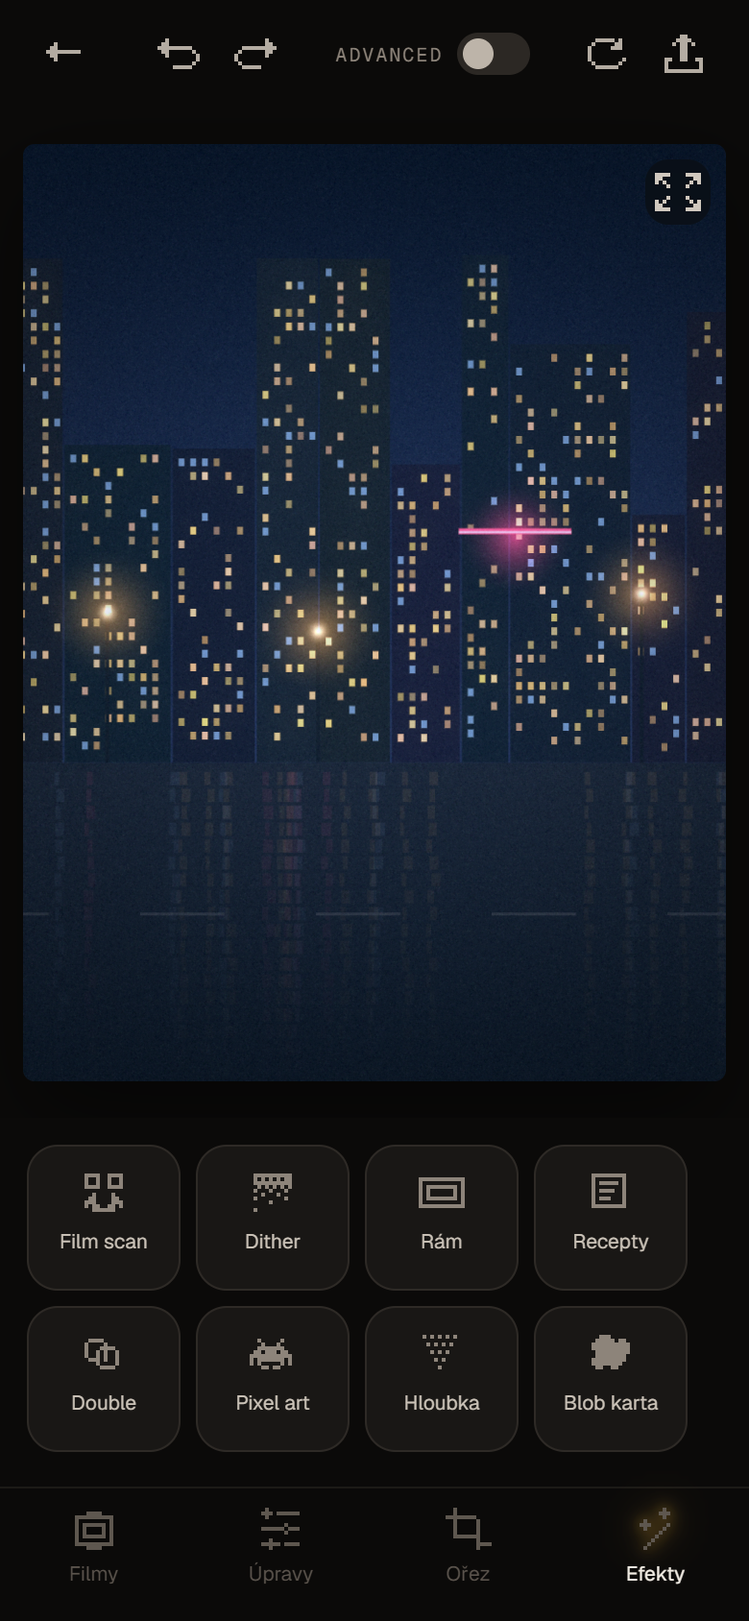
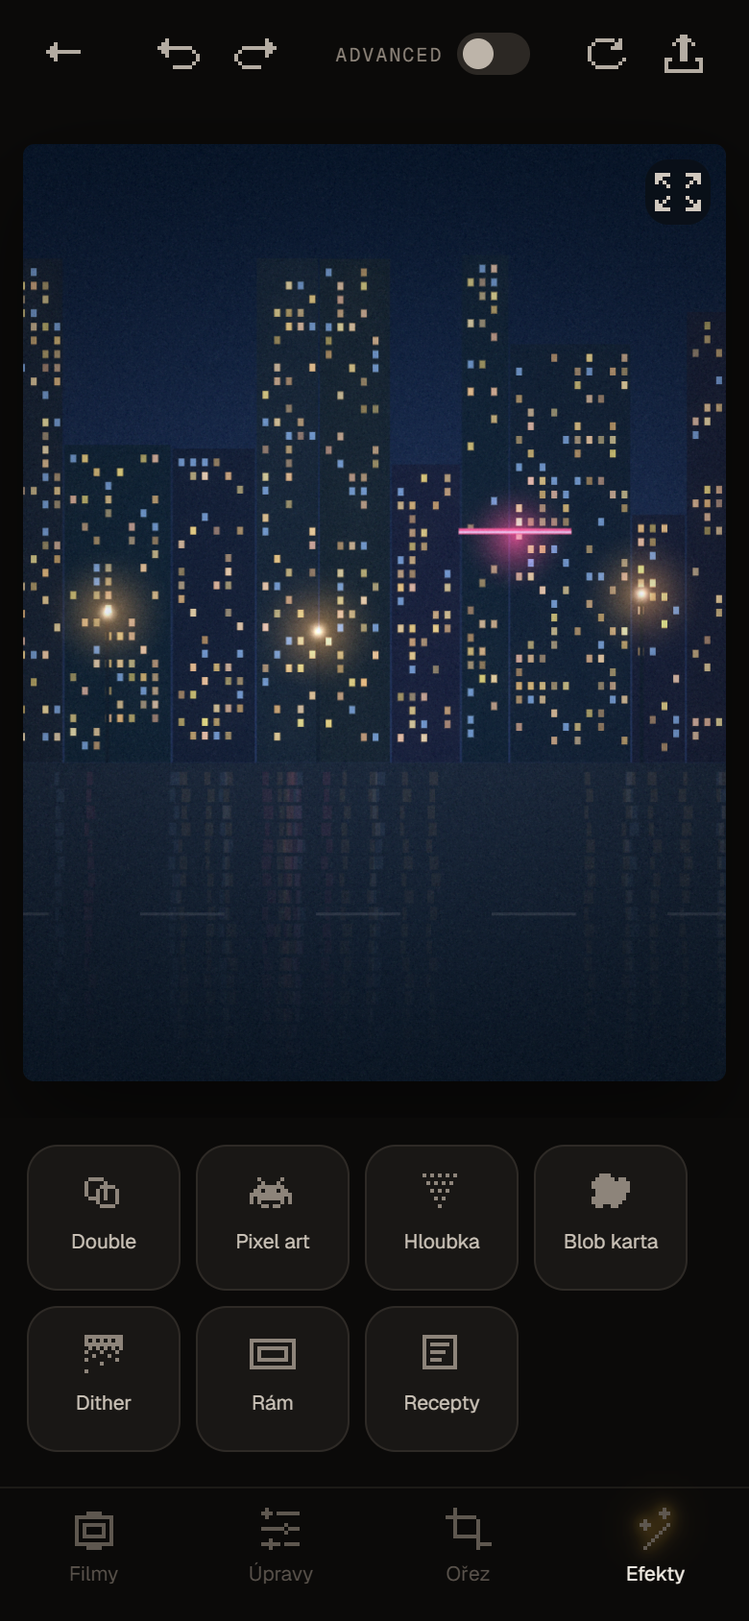
Náhled 0.7.3: Film scan jako vlastní obrazovka
- Film scan přesunutý z efektů: + ve výběru filmu, karta + v Mých filmech, ikona v menu
- náhled na aktuálním záběru, síla přenosu uložená ve filmu
- export .cube / JSON vlastního filmu z nabídky po podržení
- menu: O appce přes celou šířku

diff --git a/docs/preview/index.html b/docs/preview/index.html
@@ -338,6 +338,7 @@ a{color:var(--amber)}
 .fhead{position:relative}
 .favbtn{position:absolute;right:18px;top:4px;width:40px;height:40px;border-radius:13px;display:grid;place-items:center;color:#6d655c}
 .favbtn.on{color:#ff5b6e}
+.newfilm{position:absolute;left:18px;top:4px;width:40px;height:40px;border-radius:13px;display:grid;place-items:center;color:var(--fg);font-size:22px;box-shadow:inset 0 0 0 1.5px #3d3731}
 .favbtn.on .px{color:#ff5b6e;filter:drop-shadow(0 0 6px rgba(255,80,100,.6))}
 .citem.fav span::before,.fthumb.fav span::before{content:"♥ ";color:#ff5b6e}
 .filmchip .dispo{color:var(--amber)}
@@ -469,6 +470,16 @@ input[type=range]:hover::-webkit-slider-thumb{background:#fff}
 /* reference sheet */
 .refrow{display:grid;grid-template-columns:1fr auto 1fr;gap:10px;align-items:center;padding:0 18px}
 .refrow figure{margin:0;text-align:center}
+.scanbody{flex:1;overflow-y:auto;display:flex;flex-direction:column;gap:18px;padding:6px 0 24px}
+.scanbody .snote{margin:0;padding:0 20px;font-size:12.5px;line-height:1.5;color:var(--mute);text-align:center}
+.scanbody .bh{padding:0 18px 8px}
+.scanbody .srow{padding:0 18px}
+.scanbody .segrow{display:flex;padding:0 18px}
+.scanbody .segrow .seg{display:flex;flex:1}
+.scanbody .segrow .seg button{flex:1;height:32px;padding:0}
+.menu button:last-child:nth-child(3n+1){grid-column:1/-1;flex-direction:row;justify-content:center;padding:14px 8px}
+.fcard.addcard{align-items:stretch}
+.fcard.addcard .ab{aspect-ratio:4/5;border-radius:14px;border:1.5px dashed #4a443e;display:grid;place-items:center;color:var(--fg);font-size:30px}
 .refrow canvas{width:100%;aspect-ratio:4/5;border-radius:14px;display:block}
 .refrow figcaption{font-size:10.5px;color:var(--mute);margin-top:6px;font-family:var(--f-mono);letter-spacing:.08em}
 .refrow .arrow{color:var(--amber);font-family:var(--f-dot);font-size:22px;font-weight:900}
@@ -606,7 +617,7 @@ input[type=range]:hover::-webkit-slider-thumb{background:#fff}
 <body>
 <div class="shell" id="shell">
   <aside class="nav">
-    <div class="brand">QAMERA<small>Náhled 0.7.2</small></div>
+    <div class="brand">QAMERA<small>Náhled 0.7.3</small></div>
     <div>
       <div class="navlabel">Zobrazení</div>
       <div class="seg" id="viewSeg"><button class="on" data-v="m">MOBIL 390×844</button><button data-v="pc">PC 1440×900</button></div>
@@ -697,7 +708,7 @@ input[type=range]:hover::-webkit-slider-thumb{background:#fff}
           </div>
           <div class="sheet" id="filmSheet">
             <div class="grab"></div>
-            <div class="fhead"><div class="code" id="fCode">P400</div><div class="sub" id="fSub"></div><button class="favbtn" id="favBtn" aria-label="Oblíbený film"></button></div>
+            <div class="fhead"><div class="code" id="fCode">P400</div><div class="sub" id="fSub"></div><button class="favbtn" id="favBtn" aria-label="Oblíbený film"></button><button class="newfilm" id="newFilm" aria-label="Nový film z fotky">+</button></div>
             <div class="carousel hs" id="carousel"></div>
             <div class="fdesc" id="fDesc"></div>
             <div class="flegend">Číslo v kódu je citlivost ISO: vyšší = víc grainu a lepší do tmy.</div>
@@ -748,17 +759,6 @@ input[type=range]:hover::-webkit-slider-thumb{background:#fff}
             <button data-t="crop"><svg class="px" viewBox="0 0 24 24" data-raw="crop"></svg>Ořez</button>
             <button data-t="fx"><svg class="px" viewBox="0 0 24 24" data-raw="magic"></svg>Efekty</button>
           </nav>
-          <div class="sheet" id="refSheet">
-            <div class="grab"></div>
-            <div class="fhead" style="height:48px"><div class="code" style="font-size:22px">FILM SCAN</div><div class="sub">vytvoř si vlastní film z fotky, která se ti líbí</div></div>
-            <div class="refrow"><figure><canvas id="refA" width="160" height="200"></canvas><figcaption>REFERENCE</figcaption></figure><span class="arrow">→</span><figure><canvas id="refB" width="160" height="200"></canvas><figcaption>VÝSLEDEK</figcaption></figure></div>
-            <div class="refpick hs" id="refPick"></div>
-            <div class="segrow"><div class="seg" id="refMethod"><button class="on" data-m="r">REINHARD</button><button data-m="i">IDT + REGRAIN</button></div></div>
-            <div class="srow"><span>Síla přenosu</span><input type="range" id="refStr" min="0" max="100" value="80" data-def="0"><output id="refStrO">80</output></div>
-            <div class="segrow" style="gap:8px"><button class="pbtn ghost" id="scanOff">Vypnout</button><button class="pbtn" id="scanSave">Uložit jako vlastní film</button></div>
-            <div class="exports"><button data-x=".cube">.cube<small>DaVinci, Photoshop</small></button><button data-x="JSON">JSON<small>preset Qamery</small></button><button data-x="XMP">XMP<small>Lightroom</small></button></div>
-            <button class="closebtn" id="refClose" aria-label="Zavřít"><svg class="px" viewBox="0 0 24 24" data-raw="down"></svg></button>
-          </div>
           <div class="sheet" id="dxSheet">
             <div class="grab"></div>
             <div class="fhead" style="height:48px"><div class="code" style="font-size:22px">DOUBLE</div><div class="sub">dvojexpozice s další fotkou</div></div>
@@ -791,6 +791,19 @@ input[type=range]:hover::-webkit-slider-thumb{background:#fff}
           <div class="bbar pb"><button class="pbtn ghost" id="bText">Text: zap</button><button class="pbtn ghost" id="bSave">Uložit blob</button><button class="pbtn" id="bShare">Export</button></div>
         </section>
 
+        <!-- FILM SCAN -->
+        <section class="scr pt" id="s-scan" hidden>
+          <div class="top"><button class="ib" data-back aria-label="Zpět" data-ic="back"></button><span class="title">Film scan</span><span style="width:40px"></span></div>
+          <div class="scanbody">
+            <p class="snote">Vyber fotku, jejíž barvy se ti líbí. Qamera z ní přenese barvy a tóny a uloží je jako tvůj vlastní film.</p>
+            <div class="refrow"><figure><canvas id="refA" width="160" height="200"></canvas><figcaption>REFERENCE</figcaption></figure><span class="arrow">→</span><figure><canvas id="refB" width="160" height="200"></canvas><figcaption>TVŮJ ZÁBĚR</figcaption></figure></div>
+            <div><div class="bh">VYBER FOTKU</div><div class="refpick hs" id="refPick"></div></div>
+            <div class="segrow"><div class="seg" id="refMethod"><button class="on" data-m="r">REINHARD</button><button data-m="i">IDT + REGRAIN</button></div></div>
+            <div class="srow"><span>Síla přenosu</span><input type="range" id="refStr" min="0" max="100" value="80" data-def="0"><output id="refStrO">80</output></div>
+          </div>
+          <div class="bbar pb"><button class="pbtn" id="scanSave">Uložit jako nový film</button></div>
+        </section>
+
         <!-- SPRÁVCE FILMŮ -->
         <section class="scr pt" id="s-films" hidden>
           <div class="top"><button class="ib" data-back aria-label="Zpět" data-ic="back"></button><span class="title">Moje filmy</span><span style="width:40px"></span></div>
@@ -801,7 +814,7 @@ input[type=range]:hover::-webkit-slider-thumb{background:#fff}
         <section class="scr pt" id="s-about" hidden>
           <div class="top"><button class="ib" data-back aria-label="Zpět" data-ic="back"></button><span class="title">O appce</span><span style="width:40px"></span></div>
           <div class="about">
-            <div class="hero"><div class="lens"><svg class="eyes" id="aboutEyes" viewBox="14 24 92 72"></svg></div><h2>QAMERA</h2><div class="ver">NÁHLED 0.7.2</div></div>
+            <div class="hero"><div class="lens"><svg class="eyes" id="aboutEyes" viewBox="14 24 92 72"></svg></div><h2>QAMERA</h2><div class="ver">NÁHLED 0.7.3</div></div>
             <div class="card"><h3>Poděkování</h3>
               <p><a href="https://github.com/thetechgeekko/Spektrafilm-android" target="_blank" rel="noopener">Spektrafilm for Android</a> by <b>Akshay Sharma</b></p>
               <p>Film modeling powered by <a href="https://github.com/andreavolpato/spektrafilm" target="_blank" rel="noopener">spektrafilm</a> (Andrea Volpato)</p>
@@ -1353,7 +1366,7 @@ class Engine {
     gl.uniform3fv(u.uHsl, P.hsl.flat());
     const g = P.grade; gl.uniform3fv(u.uGSh, hue2rgb(g.sh[0], g.sh[1])); gl.uniform3fv(u.uGMid, hue2rgb(g.mid[0], g.mid[1])); gl.uniform3fv(u.uGHi, hue2rgb(g.hi[0], g.hi[1]));
     let T = o.transfer;
-    if (!T && f.scan && this.srcEl) { if (!this.st) this.st = stats(this.srcEl); T = { k: Math.min(1, P.str), ms: this.st.m, ss: this.st.s, mr: f.scan.m, sr: f.scan.s }; }
+    if (!T && f.scan && this.srcEl) { if (!this.st) this.st = stats(this.srcEl); T = { k: Math.min(1, P.str) * (f.scan.k ?? 1), ms: this.st.m, ss: this.st.s, mr: f.scan.m, sr: f.scan.s }; }
     gl.uniform1f(u.uGlow, P.glow ?? f.gl ?? .12); gl.uniform1f(u.uIR, f.ir ? 1 : 0);
     const st = (!o.bypass && P.style) || {}, sty = st.type === 'dither' ? 1 : st.type === 'pixel' ? 2 : 0, pal = (st.pal || []).slice(0, 6), pf = new Float32Array(18);
     pal.forEach((c, i) => { const v = rgbOf(c); pf.set([v[0] / 255, v[1] / 255, v[2] / 255], i * 3); });
@@ -1637,7 +1650,7 @@ const SLOW_MODES = ['STOPY', 'POHYB', 'HEDVÁBÍ'];
 /* =====================================================================
    Router + přechody
    ===================================================================== */
-const SCREENS = { camera: '#s-camera', gallery: '#s-gallery', editor: '#s-editor', blob: '#s-blob', about: '#s-about', films: '#s-films' };
+const SCREENS = { camera: '#s-camera', gallery: '#s-gallery', editor: '#s-editor', blob: '#s-blob', about: '#s-about', films: '#s-films', scan: '#s-scan' };
 const stack = [];
 let trans = null;
 function go(to, { back = false, onShown } = {}) {
@@ -1663,14 +1676,16 @@ function goBack() { const to = stack.pop() || 'camera'; go(to, { back: true }); 
 function renderFilmsMgr() { // všechny filmy na tvojí fotce: podrž = před/po, srdíčko = oblíbený, oko = skrýt z výběru
   const ph = S.photos.find(p => p.kind !== 'arch') || S.photos[0], src = srcOf(ph, ph.P);
   $('#fmg').innerHTML = `<p class="note">Ukázka na fotce z galerie. Podrž náhled = původní fotka. Skryté filmy nebudou ve výběru ve foťáku ani v editoru.</p>` + FILMS.map(f => `<div class="fcard ${HIDDEN.includes(f.code) ? 'off' : ''}" data-c="${f.code}"><canvas width="240" height="300"></canvas>
-    <div class="ft"><div><b>${f.code}</b><small>${f.sub}</small></div><div class="fa"><button class="heart ${FAV.includes(f.code) ? 'on' : ''}" aria-label="Oblíbený">${iconSVG(FAV.includes(f.code) ? 'heart' : 'heartO')}</button><button class="vis ${HIDDEN.includes(f.code) ? '' : 'on'}" aria-label="Zobrazit ve výběru">${iconSVG('eye')}</button></div></div></div>`).join('');
+    <div class="ft"><div><b>${f.code}</b><small>${f.sub}</small></div><div class="fa"><button class="heart ${FAV.includes(f.code) ? 'on' : ''}" aria-label="Oblíbený">${iconSVG(FAV.includes(f.code) ? 'heart' : 'heartO')}</button><button class="vis ${HIDDEN.includes(f.code) ? '' : 'on'}" aria-label="Zobrazit ve výběru">${iconSVG('eye')}</button></div></div></div>`).join('')
+    + `<button class="fcard addcard" id="fmAdd"><span class="ab">+</span><div class="ft"><div><b>NOVÝ FILM</b><small>film scan z fotky</small></div></div></button>`;
   const P = JSON.parse(JSON.stringify(ph.P)); P.crop = DEF().crop; P.gtype = null;
-  $$('#fmg .fcard').forEach(card => { const code = card.dataset.c, cv = $('canvas', card), paint = byp => { P.film = code; cv.getContext('2d').drawImage(utilRender(src, P, 240, 300, { bypass: byp }), 0, 0); }; paint(false);
+  $('#fmAdd').onclick = () => go('scan');
+  $$('#fmg .fcard[data-c]').forEach(card => { const code = card.dataset.c, cv = $('canvas', card), paint = byp => { P.film = code; cv.getContext('2d').drawImage(utilRender(src, P, 240, 300, { bypass: byp }), 0, 0); }; paint(false);
     let t = 0; cv.onpointerdown = () => { t = setTimeout(() => { paint(true); buzz(6); }, 140); }; cv.onpointerup = cv.onpointercancel = cv.onpointerleave = () => { clearTimeout(t); paint(false); };
     $('.heart', card).onclick = () => { FAV = FAV.includes(code) ? FAV.filter(c => c !== code) : [code, ...FAV]; store.set('fav', FAV); renderFilmsMgr(); buildCarousel(); buzz(6); };
     $('.vis', card).onclick = () => { HIDDEN = HIDDEN.includes(code) ? HIDDEN.filter(c => c !== code) : [...HIDDEN, code]; store.set('hiddenFilms', HIDDEN); card.classList.toggle('off', HIDDEN.includes(code)); $('.vis', card).classList.toggle('on', !HIDDEN.includes(code)); buildCarousel(); buzz(4); }; });
 }
-function onEnter(s) { if (s === 'films') renderFilmsMgr(); if (s === 'camera') startCam(); if (s === 'gallery') renderGallery(); if (s === 'blob') openBlob(); if (s === 'about') renderCamInfo(); if (s === 'editor') requestAnimationFrame(() => layoutEditor()); }
+function onEnter(s) { if (s === 'films') renderFilmsMgr(); if (s === 'scan') openScan(); if (s === 'camera') startCam(); if (s === 'gallery') renderGallery(); if (s === 'blob') openBlob(); if (s === 'about') renderCamInfo(); if (s === 'editor') requestAnimationFrame(() => layoutEditor()); }
 function onLeave(s) { if (s === 'camera' && S.screen !== 'camera') stopCam(); }
 
 /* spodní panely: tah za úchyt dolů = zavřít */
@@ -1691,8 +1706,8 @@ function sheetDrag(el) {
     h.addEventListener('pointerup', up); h.addEventListener('pointercancel', up);
   });
 }
-function onSheetClosed(el) { if (el.id === 'refSheet') setTab(S.tab, true); }
-function closeSheets() { ['#filmSheet', '#menuSheet', '#refSheet', '#dxSheet'].forEach(s => { const el = $(s); if (el._open) sheet(el, false); }); }
+function onSheetClosed(el) {}
+function closeSheets() { ['#filmSheet', '#menuSheet', '#dxSheet'].forEach(s => { const el = $(s); if (el._open) sheet(el, false); }); }
 
 /* =====================================================================
    Kamera
@@ -2198,7 +2213,7 @@ function viewImage(src, ph) {
    ===================================================================== */
 let edE, edRaf = 0, before = false;
 const PANEL_H = 186;
-function cleanP(P) { if (P.frame && !FRAMES[P.frame]) P.frame = null; P.date = null; if (P.depth && P.depth.mode === 'par') P.depth.mode = 'bokeh'; return P; } // zrušené efekty
+function cleanP(P) { if (P.frame && !FRAMES[P.frame]) P.frame = null; P.date = null; P.tr = 0; if (P.depth && P.depth.mode === 'par') P.depth.mode = 'bokeh'; return P; } // zrušené efekty
 function openEditor(ph, fromImg) {
   stopPar(); S.cur = ph; S.fxOpen = null; cleanP(ph.P); S.P = JSON.parse(JSON.stringify(ph.P)); S.cur._last = JSON.parse(JSON.stringify(ph.P)); S.hist = []; S.fut = [];
   edE.setSource(srcOf(ph, S.P));
@@ -2337,7 +2352,7 @@ function bakeCube(P, name) {
   for (let b = 0; b < n; b++) for (let y = 0; y < n; y++) for (let x = 0; x < n; x++) { const i = (y * n * n + b * n + x) * 4; im.data[i] = Math.round(x / (n - 1) * 255); im.data[i + 1] = Math.round(y / (n - 1) * 255); im.data[i + 2] = Math.round(b / (n - 1) * 255); im.data[i + 3] = 255; }
   g.putImageData(im, 0, 0);
   const Q = Object.assign(JSON.parse(JSON.stringify(P)), { grain: 0, hal: 0, bloom: 0, glow: 0, vig: 0, sharp: 0, style: null, depth: null, crop: DEF().crop }); // jen barvy a tóny
-  const T = P.tr ? transferFor() : (FILM[P.film] && FILM[P.film].scan ? (() => { const st = S.cur._stats || (S.cur._stats = stats(S.cur.src)), f = FILM[P.film]; return { k: Math.min(1, P.str), ms: st.m, ss: st.s, mr: f.scan.m, sr: f.scan.s }; })() : null);
+  const f0 = FILM[P.film], T = f0 && f0.scan ? { k: Math.min(1, P.str) * (f0.scan.k ?? 1), ms: [.45, .43, .41], ss: [.24, .24, .24], mr: f0.scan.m, sr: f0.scan.s } : null; // pro LUT průměrná fotka
   const out = copyCanvas(utilRender(id, Q, n * n, n, { transfer: T })), d = out.getContext('2d').getImageData(0, 0, n * n, n).data;
   let txt = ATTR.map(a => '# ' + a).join('\n') + `\n# Qamera look: ${name}\nTITLE "${name.replace(/"/g, '')}"\nLUT_3D_SIZE ${n}\nDOMAIN_MIN 0 0 0\nDOMAIN_MAX 1 1 1\n`;
   for (let b = 0; b < n; b++) for (let y = 0; y < n; y++) for (let x = 0; x < n; x++) { const i = (y * n * n + b * n + x) * 4; txt += `${(d[i] / 255).toFixed(5)} ${(d[i + 1] / 255).toFixed(5)} ${(d[i + 2] / 255).toFixed(5)}\n`; }
@@ -2348,8 +2363,8 @@ async function saveFile(name, text, type) {
   try { if (isMobile() && navigator.canShare && navigator.canShare({ files: [file] })) { await navigator.share({ files: [file], title: name }); return; } } catch (e) { if (e && e.name === 'AbortError') return; }
   const a = document.createElement('a'); a.href = URL.createObjectURL(file); a.download = name; document.body.appendChild(a); a.click(); setTimeout(() => { URL.revokeObjectURL(a.href); a.remove(); }, 1500); toast(`Uloženo: ${name}`);
 }
-function exportLook(kind) {
-  if (!S.cur) return; const P = S.P, name = `Qamera ${P.film}`, base = `qamera-${P.film.replace(/[^\w-]/g, '')}`;
+function exportLook(kind, P0) {
+  const P = P0 || S.P; if (!P) return; const name = `Qamera ${P.film}`, base = `qamera-${P.film.replace(/[^\w-]/g, '')}`;
   if (kind === '.cube') return saveFile(base + '.cube', bakeCube(P, name), 'text/plain');
   if (kind === 'JSON') return saveFile(base + '.json', JSON.stringify({ qamera: 1, name, film: P.film, lut: `luts/${P.film}.png`, attribution: ATTR, params: Object.fromEntries(Object.entries(P).filter(([k]) => !['crop', 'dx', 'depth'].includes(k))) }, null, 1), 'application/json');
   const f = FILM[P.film] || {}, num = v => (v > 0 ? '+' : '') + Math.round(v);
@@ -2446,7 +2461,7 @@ function setTab(t, quiet) {
     hscroll($('#aspRow')); requestAnimationFrame(placeCropBox);
   } else if (t === 'fx' && S.fxOpen) { renderFxPanel(p);
   } else if (t === 'fx') {
-    const fx = [['scan', 'Film scan', 'ref'], ['double', 'Double', 'double'], ['dither', 'Dither', 'dither'], ['pixel', 'Pixel art', 'pixel'], ['frame', 'Rám', 'frame'],
+    const fx = [['double', 'Double', 'double'], ['dither', 'Dither', 'dither'], ['pixel', 'Pixel art', 'pixel'], ['frame', 'Rám', 'frame'],
       ['depth', 'Hloubka', 'depth'], ['recipe', 'Recepty', 'recipe'], ['blob', 'Blob karta', 'blob']]; // co jde nastavit v Úpravách, tady není
     const st = S.P.style && S.P.style.type, on = k => (k === 'glowfx' && (S.P.glow ?? 0) > .45) || (k === 'sharp' && S.P.sharp) || (k === 'scan' && S.P.tr) || (k === 'double' && S.P.dx && S.P.dx.other) || (k === 'dither' && st === 'dither') || (k === 'pixel' && st === 'pixel') || (k === 'frame' && S.P.frame) || (k === 'depth' && S.P.depth) || (k === 'date' && S.P.date);
     p.innerHTML = `<div class="fx hs" id="fxRow">${fx.map(([k, l, ic, e]) => `<button data-fx="${k}" class="${on(k) ? 'on' : ''}">${iconSVG(ic)}${l}${e ? `<em>${e}</em>` : ''}</button>`).join('')}</div>`;
@@ -2457,7 +2472,6 @@ function setTab(t, quiet) {
 }
 function fxClick(b) {
   const k = b.dataset.fx;
-  if (k === 'scan') { openRef(); return; }
   if (['double', 'dither', 'pixel', 'frame', 'depth', 'date'].includes(k)) { openFx(k); return; }
   if (k === 'recipe') { recipeActs(); return; }
   if (k === 'blob') { S.blobFrom = S.cur; go('blob'); return; }
@@ -2717,7 +2731,8 @@ function wheel(el, v, set, end) {
 function toggleAdv() { S.adv = !S.adv; $('#advKnob').classList.toggle('on', S.adv); setTab(S.tab); buzz(6); }
 
 /* Reference */
-function setRef(src) { refSrc = src; refStats = stats(src); $('#refA').getContext('2d').drawImage(cropAr(src, .8), 0, 0, 160, 200); renderEd(); if (openRef._upd) openRef._upd(); }
+function setRef(src) { refSrc = src; refStats = stats(src); $('#refA').getContext('2d').drawImage(cropAr(src, .8), 0, 0, 160, 200); if (openRef._upd) openRef._upd(); }
+function openRef() {}
 function buildRefPick() {
   const el = $('#refPick');
   el.innerHTML = `<label aria-label="Nahrát referenci">+<input type="file" accept="image/*" id="refFile"></label>` + S.photos.filter(p => p !== S.cur).slice(0, 14).map(p => `<button data-id="${p.id}"><img src="${p.thumb}" alt=""></button>`).join('');
@@ -2727,7 +2742,9 @@ function buildRefPick() {
 }
 function filmActs(code) {
   const f = FILM[code];
-  openActs(`<h4>Vlastní film ${code}</h4><div class="rsave"><input id="fmName" value="${code}" maxlength="8" autocomplete="off"><button class="go" id="fmRen">Přejmenovat</button></div>${actBtn('del', 'trash', 'Smazat film', 'danger')}`, root => {
+  openActs(`<h4>Vlastní film ${code}</h4><div class="rsave"><input id="fmName" value="${code}" maxlength="8" autocomplete="off"><button class="go" id="fmRen">Přejmenovat</button></div>${actBtn('cube', 'share', 'Export .cube (DaVinci, Photoshop)')}${actBtn('json', 'share', 'Export JSON preset')}${actBtn('del', 'trash', 'Smazat film', 'danger')}`, root => {
+    $('[data-a=cube]', root).onclick = () => { closeActs(); exportLook('.cube', Object.assign(DEF(), { film: code })); };
+    $('[data-a=json]', root).onclick = () => { closeActs(); exportLook('JSON', Object.assign(DEF(), { film: code })); };
     $('#fmRen', root).onclick = () => { const n = $('#fmName', root).value.trim().toUpperCase().replace(/[^A-Z0-9-]/g, ''); if (!n || (FILM[n] && n !== code)) return toast('Kód je prázdný nebo už existuje'); closeActs(); renameFilm(code, n); };
     $('[data-a=del]', root).onclick = () => { closeActs(); deleteFilm(code); };
   });
@@ -2744,20 +2761,24 @@ function deleteFilm(code) {
   S.photos.forEach(p => { if (p.P.film === code) { p.P.film = 'P400'; rethumb(p); } }); if (S.P.film === code) S.P.film = 'P400'; if (S.film === code) setFilm('P400');
   FAV = FAV.filter(c => c !== code); store.set('fav', FAV); saveScans(); refreshFilmUI(); buzz(10); toast(`Film ${code} smazaný`);
 }
+/* nový film z reference (ve foťáku): přenos barev Reinhard v Lab, náhled na aktuálním záběru */
+const SCAN = { k: .8, sample: null, st: null };
+function ensureRef() { if (!refStats) { refSrc = copyCanvas(utilRender(drawScene('plaz', 320, 400, 5), Object.assign(DEF(), { film: 'VEL', grain: 0 }), 320, 400)); refStats = stats(refSrc); } }
+function scanSample() { const el = camE && camE.srcEl, c = mk(240, 300), g = c.getContext('2d'); const w = el ? (el.videoWidth || el.width) : 0, h = el ? (el.videoHeight || el.height) : 0;
+  if (w && h) { const k = Math.max(240 / w, 300 / h); g.drawImage(el, (240 - w * k) / 2, (300 - h * k) / 2, w * k, h * k); return c; }
+  const ph = S.photos.find(p => p.kind !== 'arch'); return ph ? cropAr(ph.src, .8) : c; }
+function scanPreview() { const P = Object.assign(DEF(), { film: 'P400', str: 0, grain: .3, hal: 0, bloom: 0, vig: .2 });
+  $('#refB').getContext('2d').drawImage(utilRender(SCAN.sample, P, 160, 200, { transfer: { k: SCAN.k, ms: SCAN.st.m, ss: SCAN.st.s, mr: refStats.m, sr: refStats.s } }), 0, 0); }
+function openScan() {
+  ensureRef(); SCAN.sample = scanSample(); SCAN.st = stats(SCAN.sample); buildRefPick(); $('#refA').getContext('2d').drawImage(cropAr(refSrc, .8), 0, 0, 160, 200);
+  openRef._upd = scanPreview; scanPreview(); const rg = $('#refStr'); rg.value = Math.round(SCAN.k * 100); $('#refStrO').textContent = rg.value; paintRange(rg);
+  rg.oninput = () => { SCAN.k = rg.value / 100; $('#refStrO').textContent = rg.value; paintRange(rg); scanPreview(); };
+}
 function saveScan() {
   const n = FILMS.filter(f => f.scan).length + 1, code = 'SCAN' + n; utilRender(refSrc, DEF(), 60, 75, { bypass: true }); const pal = kmeans(util.e.pixels(), 3);
-  const f = { code, sub: 'film scan ' + n, chem: 'vlastní', desc: 'Tvůj vlastní film naskenovaný z reference. Funguje jako filtr na jakoukoli fotku i ve foťáku.', iso: 400, g: 'classic', sh: [0, 0, 0], hi: [1, 1, 1], con: 1, sat: 1, fade: .02, hal: .3, gl: .15, c: [pal[4] || pal[2], pal[2], pal[0]], scan: { m: refStats.m, s: refStats.s } };
-  addFilm(f); store.set('scans', FILMS.filter(x => x.scan)); buildCarousel();
-  S.P.tr = 0; S.P.film = code; S.P.str = 1; commit(); renderEd(true); sheet($('#refSheet'), false); setTab('film', true); buzz(12); toast(`Film ${code} uložený, najdeš ho mezi filmy i ve foťáku`);
-}
-function openRef() {
-  transferFor(); buildRefPick(); $('#refA').getContext('2d').drawImage(cropAr(refSrc, .8), 0, 0, 160, 200);
-  if (!S.P.tr) { S.P.tr = .8; renderEd(); }
-  const upd = () => { $('#refB').getContext('2d').drawImage(utilRender(srcOf(S.cur, S.P), S.P, 160, 200, { transfer: transferFor() }), 0, 0); };
-  openRef._upd = upd; upd(); const r = $('#refStr'); r.value = Math.round(S.P.tr * 100); $('#refStrO').textContent = r.value; paintRange(r);
-  r.oninput = () => { S.P.tr = r.value / 100; $('#refStrO').textContent = r.value; paintRange(r); renderEd(); upd(); };
-  r.onchange = commit;
-  sheet($('#refSheet'), true);
+  const f = { code, sub: 'film scan ' + n, chem: 'vlastní', desc: 'Tvůj vlastní film naskenovaný z reference. Podržením ho přejmenuješ, smažeš nebo vyexportuješ.', iso: 400, g: 'classic', sh: [0, 0, 0], hi: [1, 1, 1], con: 1, sat: 1, fade: .02, hal: .3, gl: .15, c: [pal[4] || pal[2], pal[2], pal[0]], scan: { m: refStats.m, s: refStats.s, k: SCAN.k } };
+  addFilm(f); store.set('scans', FILMS.filter(x => x.scan)); buildCarousel(); S.camRecipe = null; setFilm(code);
+  buzz(12); toast(`Film ${code} je ve výběru filmů`); goBack();
 }
 
 /* =====================================================================
@@ -3169,7 +3190,7 @@ function boot2(h) {
   $('#navlist').innerHTML = NAV.map(([k, l, ic]) => `<button data-k="${k}">${iconSVG(ic)}${l}</button>`).join('');
   $$('#navlist button').forEach(b => b.onclick = () => navTo(b.dataset.k));
   $$('#viewSeg button').forEach(b => b.onclick = () => setView(b.dataset.v));
-  ['#filmSheet', '#menuSheet', '#refSheet'].forEach(s => sheetDrag($(s)));
+  ['#filmSheet', '#menuSheet'].forEach(s => sheetDrag($(s)));
   addEventListener('resize', () => layoutVf());
   // kamera
   $('#filmChip').onclick = $('#cassBtn').onclick = openFilmSheet;
@@ -3201,12 +3222,13 @@ function boot2(h) {
       miniEyes.look(((e.clientX - r.left) / r.width - .5) * 2, ((e.clientY - r.top) / r.height - .5)); setTimeout(() => miniEyes.look(0, 0), 1200); buzz(4); });
     vf.addEventListener('wheel', e => { e.preventDefault(); S.zoom = clamp(S.zoom * (1 - e.deltaY * .0015), 1, 5); zoomApi.sync(); syncZoomBtns(); }, { passive: false }); })();
   // menu
-  $('#menuGrid').innerHTML = [['gallery', 'Galerie', 'gallery'], ['films', 'Moje filmy', 'film'], ['dbl', 'Double ve foťáku', 'double'], ['dispo', 'Jednorázovka', 'clock'], ['demo', 'DEMO scéna', 'camera'], ['about', 'O appce', 'info']].map(([k, l, ic]) => `<button data-k="${k}">${iconSVG(ic)}${l}</button>`).join('');
+  $('#menuGrid').innerHTML = [['gallery', 'Galerie', 'gallery'], ['films', 'Moje filmy', 'film'], ['scan', 'Film scan', 'ref'], ['dbl', 'Double ve foťáku', 'double'], ['dispo', 'Jednorázovka', 'clock'], ['demo', 'DEMO scéna', 'camera'], ['about', 'O appce', 'info']].map(([k, l, ic]) => `<button data-k="${k}">${iconSVG(ic)}${l}</button>`).join('');
   $$('#menuGrid button').forEach(b => b.onclick = () => { sheet($('#menuSheet'), false); const k = b.dataset.k;
     if (k === 'reset') { S.isoIdx = 0; S.timeIdx = 0; iso.set(0); tim.set(0); ev.reset(); updLcd(); toast('Kolečka na výchozích hodnotách'); return; }
     if (k === 'dbl') { S.dbl = !S.dbl; S.dblFirst = null; showGhost(null); updFmt(); buzz(6); toast(S.dbl ? 'Double: první snímek zůstane v hledáčku, druhý se přes něj prolne' : 'Double vypnutý'); return; }
     if (k === 'dispo') { setTimeout(dispoPick, 200); return; }
     if (k === 'films') { setTimeout(() => go('films'), 120); return; }
+    if (k === 'scan') { setTimeout(() => go('scan'), 120); return; }
     if (k === 'demo') { if (CAM.live) { liveOff(); store.set('cam', false); toast('DEMO scéna, kameru zapneš ikonou v hledáčku'); } else toast('Už běží DEMO scéna'); return; }
     setTimeout(() => navTo(k), 120); });
   $('#menuBtn').onclick = () => sheet($('#menuSheet'), true);
@@ -3224,10 +3246,8 @@ function boot2(h) {
     const px = D.getContext('2d', { willReadFrequently: true }).getImageData(Math.floor(u * (D.width - 1)), Math.floor(v * (D.height - 1)), 1, 1).data[0] / 255;
     const from = d.focus; d.fset = 1; spring(0, 1, t => { d.focus = lerp(from, px, t); renderEd(); const i = $('#fxDf'); if (i) { i.value = Math.round(d.focus * 100); i.nextElementSibling.textContent = i.value; paintRange(i); } }, { k: 200, c: 26, onDone: commit }); buzz(6); });
   $('#fsBtn').onclick = openFs;
-  $('#refClose').onclick = () => { sheet($('#refSheet'), false); setTab(S.tab, true); };
-  $('#scanOff').onclick = () => { S.P.tr = 0; renderEd(true); commit(); sheet($('#refSheet'), false); setTab(S.tab, true); buzz(6); toast('Film scan vypnutý'); };
+  $('#newFilm').onclick = () => { sheet($('#filmSheet'), false); setTimeout(() => go('scan'), 200); };
   $$('#refMethod button').forEach(b => b.onclick = () => { $$('#refMethod button').forEach(x => x.classList.toggle('on', x === b)); toast(b.dataset.m === 'r' ? 'Reinhard: průměr a odchylka barev v Lab' : 'Pitié IDT + regrain: přesnější, pomalejší'); });
-  $$('#refSheet .exports button').forEach(b => b.onclick = () => exportLook(b.dataset.x));
   cropGestures();
   // blob
   $('#bRand').onclick = diceShape;

diff --git a/sw.js b/sw.js
@@ -1,5 +1,5 @@
 /* Qamera service worker – appka funguje i offline. Po větší změně zvýšit VERSION, ať se telefonům stáhne nová verze. */
-const VERSION = 'qamera-0.7.2';
+const VERSION = 'qamera-0.7.3';
 const SHELL = ['./', './docs/preview/', './docs/preview/index.html', './manifest.webmanifest', './icons/icon.svg', './icons/icon-192.png', './icons/apple-touch-icon.png', './luts/films.json'];
 
 self.addEventListener('install', e => {
